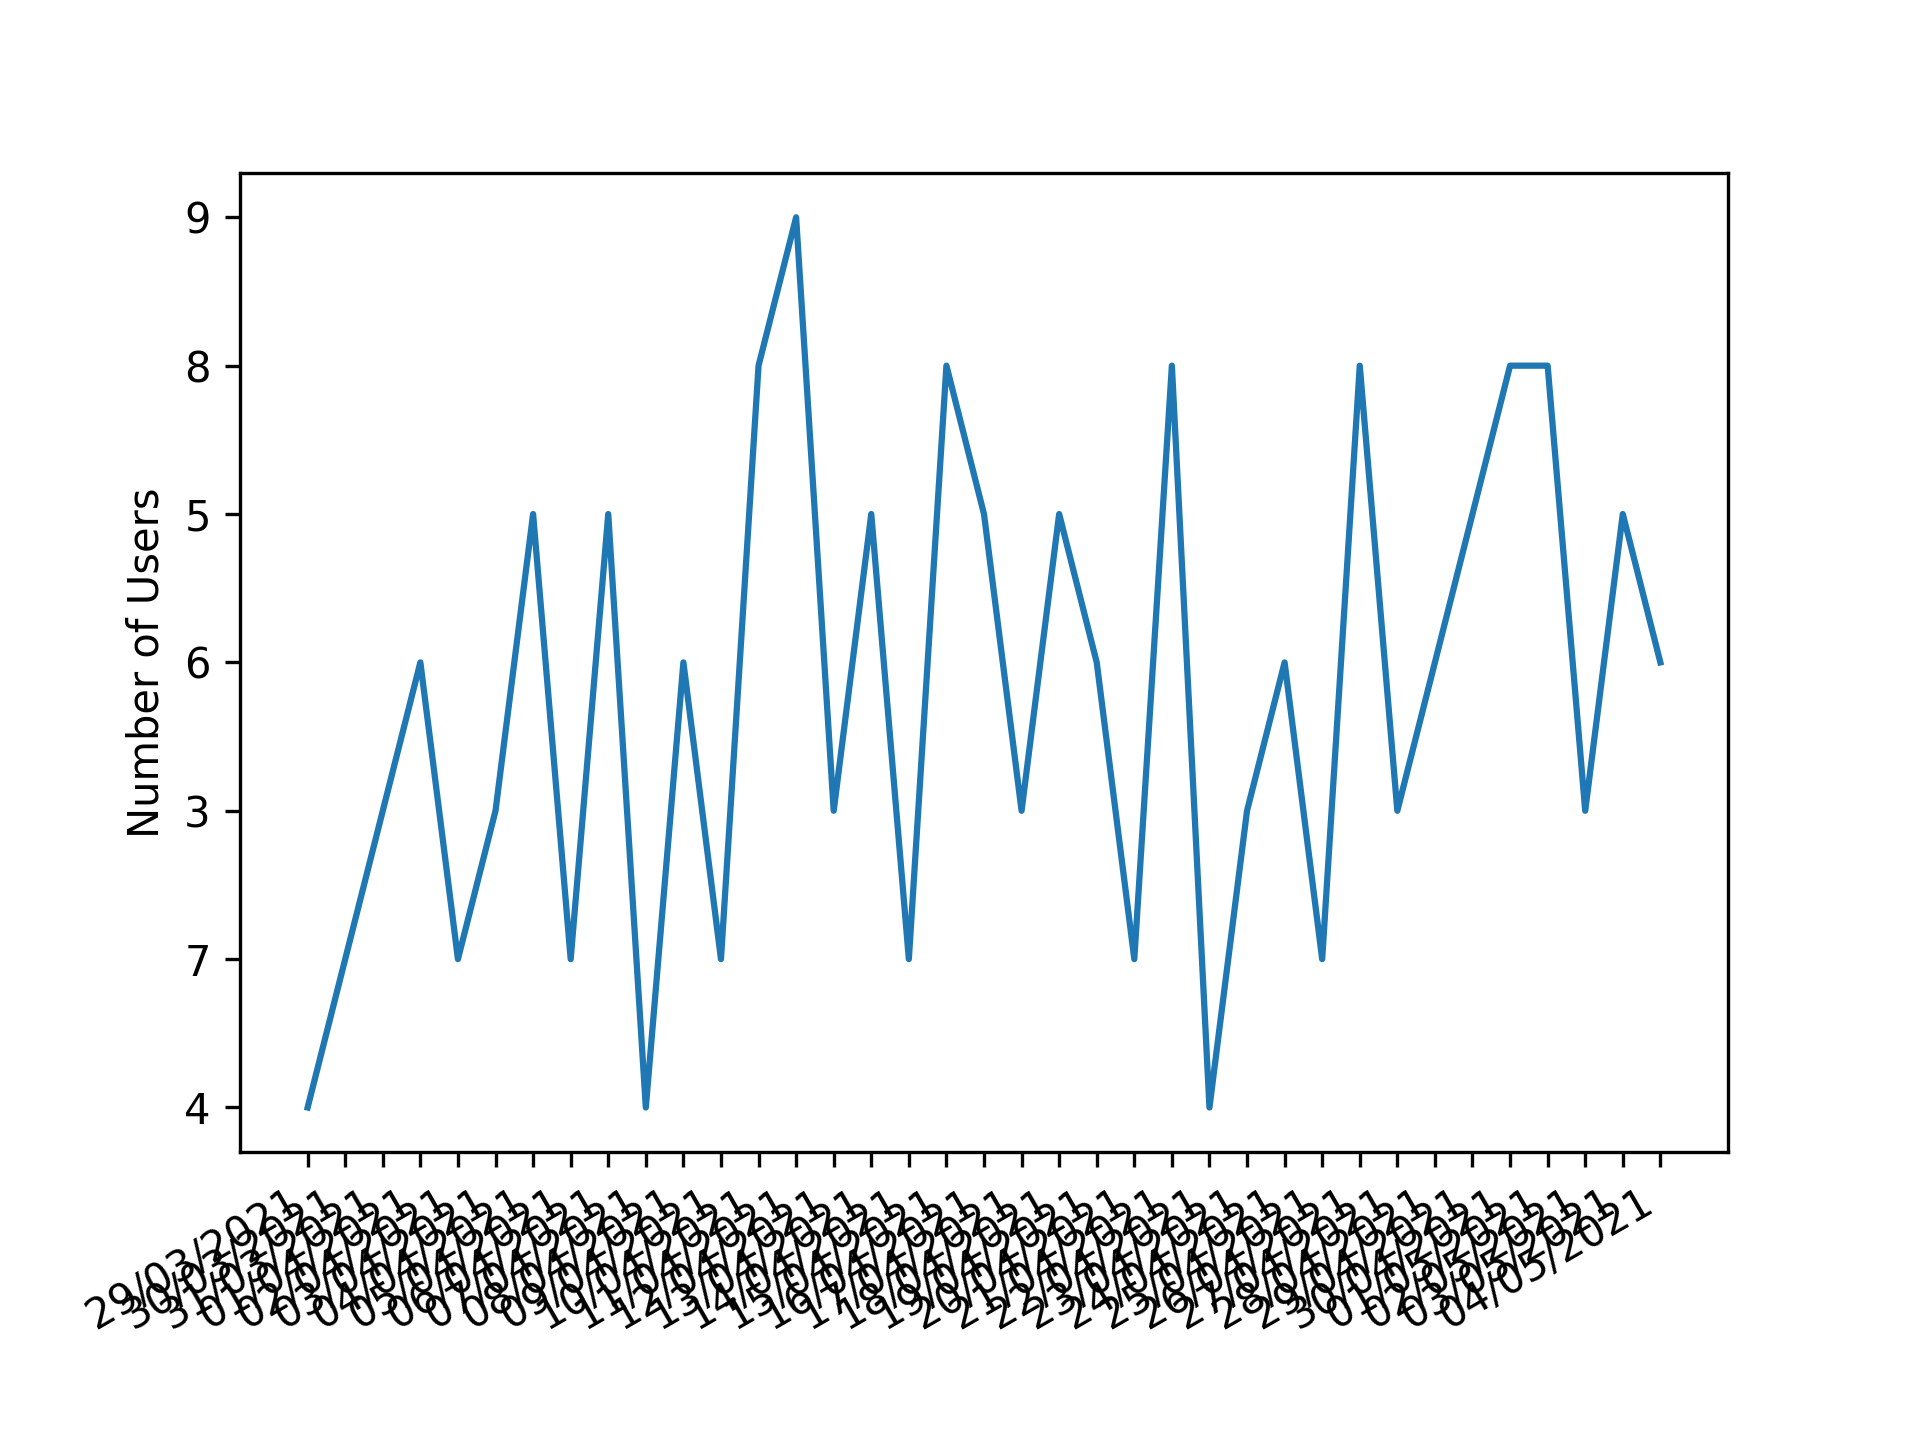
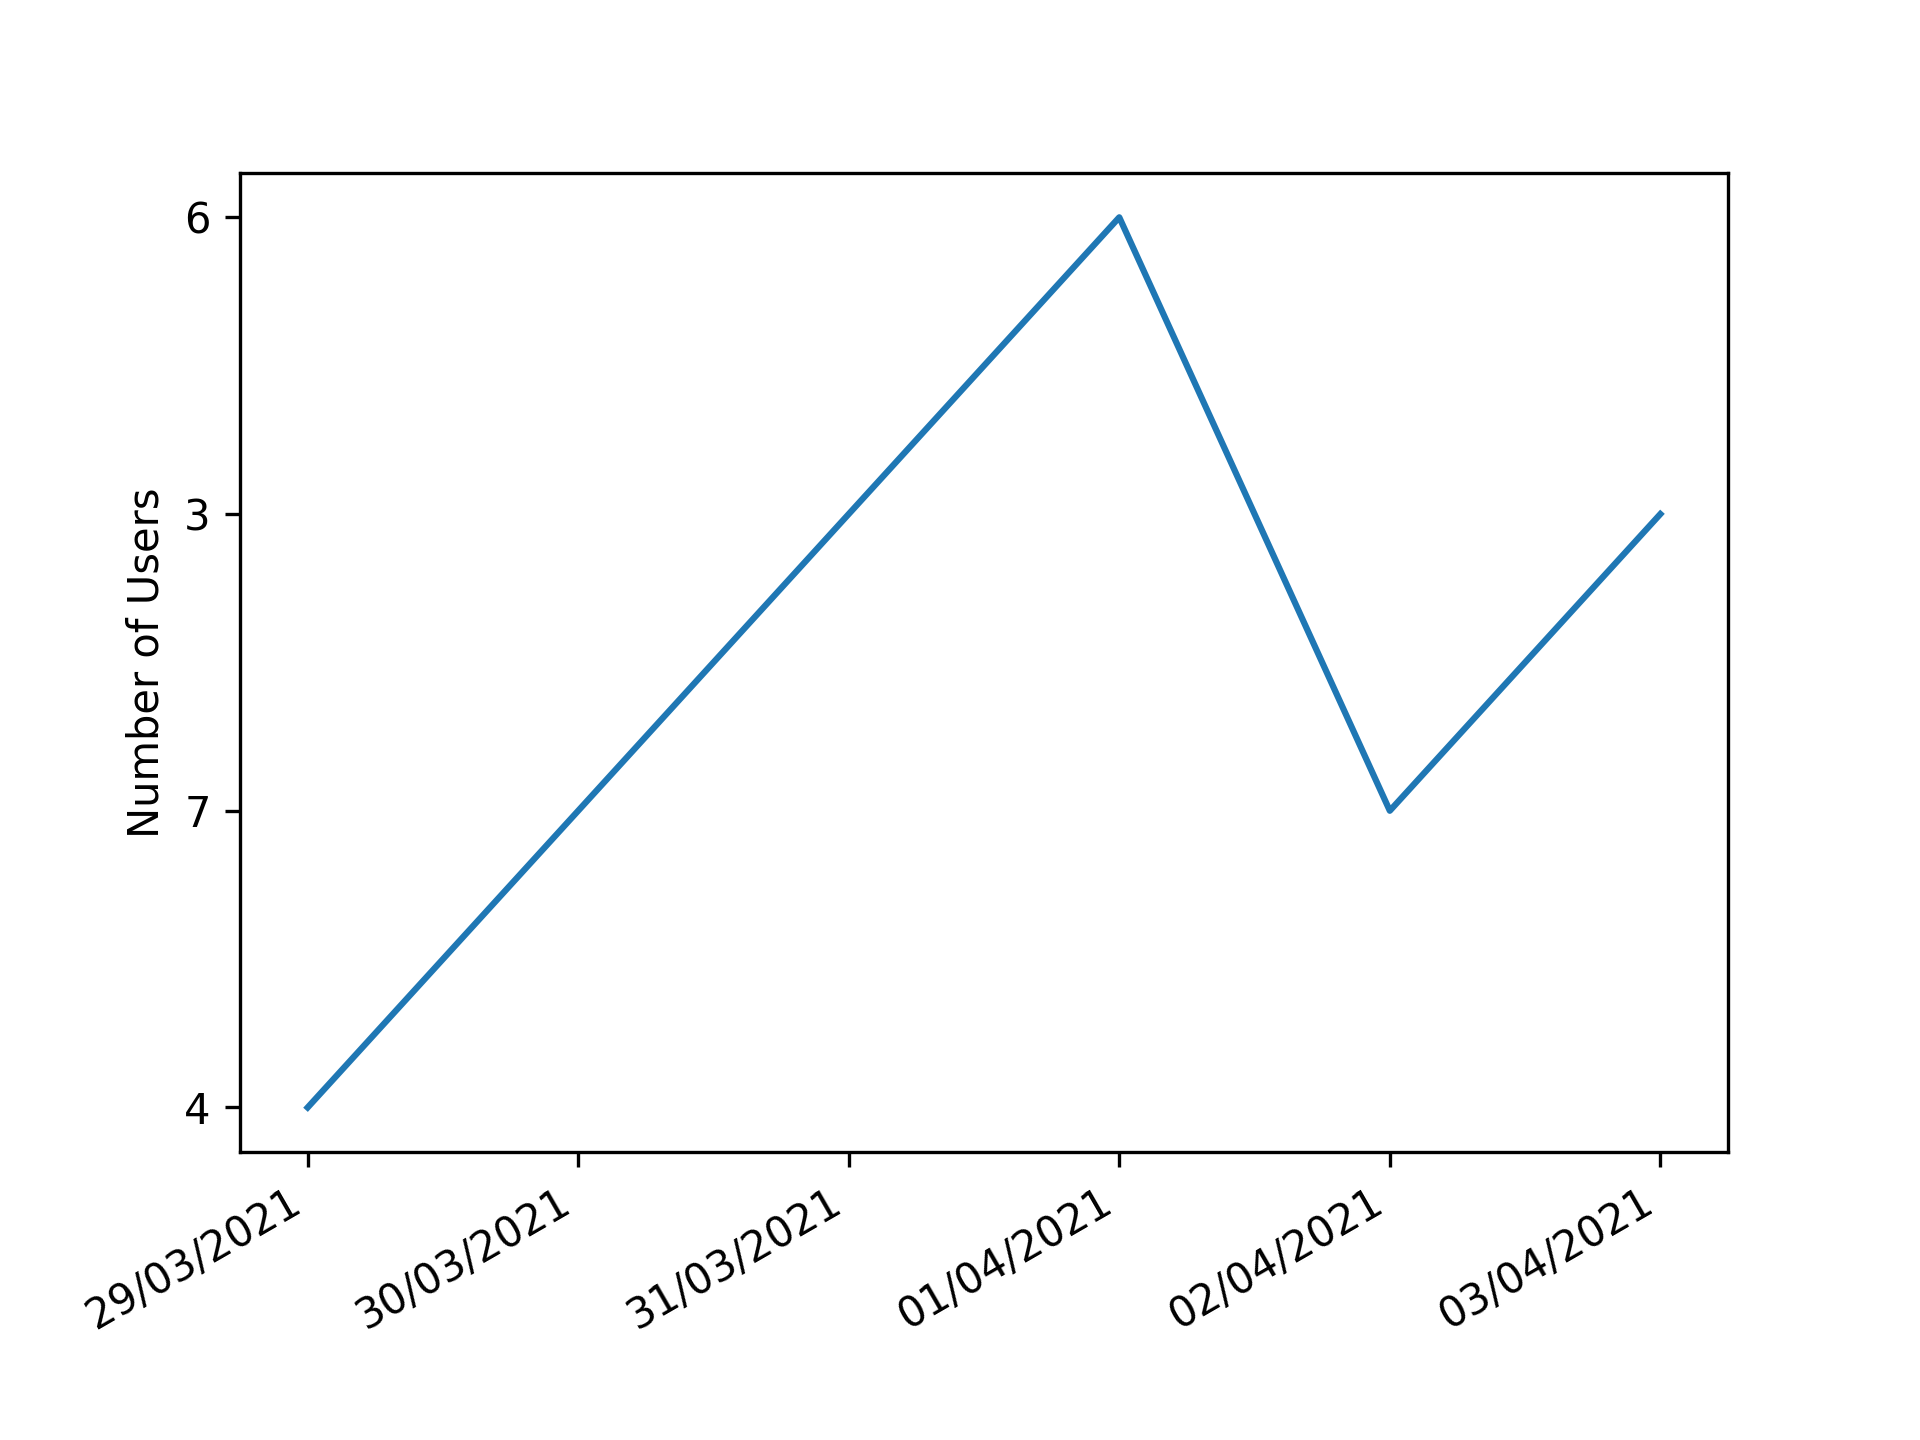
monitor function works, for some reason new versions of the graphs do not render on the html. Need to rework the generate graphs function, as at current graphs are still incorrect and ugly.

diff --git a/main.py b/main.py
@@ -7,17 +7,11 @@ from api import Database
 import utils
 import os
 import time
-from functools import wraps
 import datetime
 import json
 import threading
 import random
 import csv
-
-import matplotlib
-matplotlib.use('Agg')
-
-import matplotlib.pyplot as plt
 
 class Renewal:
     def __init__(self, key):
@@ -180,7 +174,7 @@ class AdministativeUser(User):
         self.isadmin = True
 
 
-def monitor():
+def monitorRenewals():
     while True:
         time.sleep(5)
 
@@ -221,25 +215,25 @@ def monitor():
             else:
                 pass
 
+def monitorGraphs():
+    while True:
+        #only checks to refesh once every 10 minutes, as generating graphs is relatively processer intensive
+        time.sleep(10*60)
 
-def generateGraph():
-    with open('graphinfo.csv','r') as graphdata:
-        graphpoints = csv.reader(graphdata, delimiter=',')
-        rows = list(graphpoints)
+        with open('graphinfo.csv','r') as current_file:
+            latestdate = list(csv.reader(current_file, delimiter=','))[-1][0]
 
-    #get licenses graph
-    fig, ax = plt.subplots()
-    plt.plot([value[0] for value in rows[1:]], [value[1] for value in rows[1:]])
-    plt.ylabel(rows[0][1])
-    fig.autofmt_xdate()
-    plt.savefig('static/images/licenses.png',dpi=300)
+        latestdate = datetime.datetime.strptime(latestdate,'%d/%m/%Y').date()
+        nowdate = datetime.date.today()
 
-    #get users graph
-    fig, ax = plt.subplots()
-    plt.plot([value[0] for value in rows[1:]], [value[2] for value in rows[1:]])
-    plt.ylabel(rows[0][2])
-    fig.autofmt_xdate()
-    plt.savefig('static/images/users.png', dpi=300)
+        if nowdate > latestdate:
+            with open('graphinfo.csv', 'a') as current_file:
+                db = Database()
+                current_file.write(f'''\n{datetime.datetime.strftime(nowdate,'%d/%m/%Y')},{db.getCountofTable('licenses')},{db.getCountofTable('users')}''')
+                db.closeConnection()
+
+            #generate a new set of graphs for the new day
+            utils.generateGraph()
 
 
 app = Flask(__name__)
@@ -437,7 +431,6 @@ def admindash():
     if current_user.getAdminPerms():
         statsdict = utils.gatherStatistics()
         randomstats = [[statsdict[value], value] for value in random.sample(list(statsdict), 3)]
-        generateGraph()
         return render_template('admindash.html', stats=randomstats)
     else:
         reason = f'Insufficient permissions.'
@@ -648,7 +641,12 @@ if __name__ == '__main__':
     db = Database()
     db.create()
     # creates and runs monitor function on a secondary daemon thread
-    monitorfunct = threading.Thread(name='monitor', target=monitor, daemon=True)
+    monitorfunct = threading.Thread(name='monitor', target=monitorRenewals, daemon=True)
     monitorfunct.start()
+
+    # creates and runs monitor stats function on a secondary daemon thread
+    monitorstats = threading.Thread(name='monitorstats', target=monitorGraphs, daemon=True)
+    monitorstats.start()
+
     # runs on main thread
     app.run()

diff --git a/utils.py b/utils.py
@@ -1,8 +1,13 @@
 from api import Database
 import random
 import hashlib
-import math
+import csv
+import matplotlib
 
+#necessary in relation to imports as to stop
+matplotlib.use('Agg')
+
+import matplotlib.pyplot as plt
 
 def generatekey(random_chars, alphabet="abcdefghijklmnopqrstuvwxyz1234567890"):
     r = random.SystemRandom()
@@ -101,14 +106,14 @@ def generateGraph():
         graphpoints = csv.reader(graphdata, delimiter=',')
         rows = list(graphpoints)
 
-    #get licenses graph
+    # get licenses graph
     fig, ax = plt.subplots()
     plt.plot([value[0] for value in rows[1:]], [value[1] for value in rows[1:]])
     plt.ylabel(rows[0][1])
     fig.autofmt_xdate()
     plt.savefig('static/images/licenses.png',dpi=300)
 
-    #get users graph
+    # get users graph
     fig, ax = plt.subplots()
     plt.plot([value[0] for value in rows[1:]], [value[2] for value in rows[1:]])
     plt.ylabel(rows[0][2])
